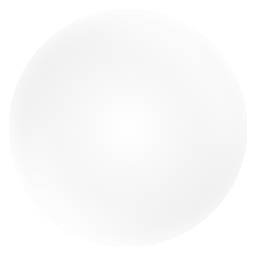
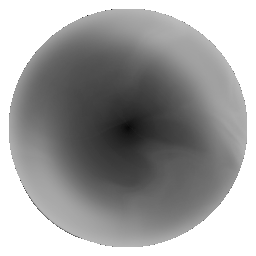
Level change mechanic & Particle animation
The game now messages the level change to the Game Controller

diff --git a/Assets/_Scripts/Games/G04_Simon.cs b/Assets/_Scripts/Games/G04_Simon.cs
@@ -20,20 +20,24 @@ namespace _Scripts.Games
     public class G04_Simon : MonoBehaviour
     {
 
-        [SerializeField] private List<GameObject> buttons, icons;
+        [SerializeField] private List<GameObject> buttons, infos;
         [SerializeField] private List<Simon> displayPattern, guessPattern, infoPattern;
         [SerializeField] private GameObject middle, overlay;
-        [SerializeField] private Difficulty currentLevel = Difficulty.LVL1;
+        private Difficulty CurrentLevel { get; set; } = Difficulty.LVL2;
+        private Color middleOriginal;
+
+        private const float WAIT_TIME = 0.25f;
         private const int MIN_LENGTH = 3, CHANCE = 3;
+        [SerializeField]  private int checkingIndex = 0, correctGuesses = 0;
         private bool isPlayerTurn = false;
-        private int checkingIndex = 0;
 
         // Start is called before the first frame update
         void Start()
         {
+            middleOriginal = middle.GetComponent<SpriteRenderer>().color;
             StartCoroutine(ActivateButtons());
             GeneratePattern(MIN_LENGTH);
-            StartCoroutine(AnimateButtons());
+            StartCoroutine(AnimateButtons(buttons));
         }
 
         /// <summary>
@@ -41,14 +45,14 @@ namespace _Scripts.Games
         /// </summary>
         private IEnumerator ActivateButtons()
         {
-            yield return new WaitForSeconds(0.25f);
+            yield return new WaitForSeconds(WAIT_TIME);
             middle.SetActive(true);
-            yield return new WaitForSeconds(0.25f);
+            yield return new WaitForSeconds(WAIT_TIME);
             foreach (GameObject button in buttons)
             {
                 button.SetActive(true);
                 button.GetComponent<SimonButton>().Animate();
-                yield return new WaitForSeconds(0.25f);
+                yield return new WaitForSeconds(WAIT_TIME);
             }
         }
 
@@ -60,6 +64,7 @@ namespace _Scripts.Games
             checkingIndex = 0;
             isPlayerTurn = false;
             overlay.SetActive(isPlayerTurn);
+            middle.GetComponent<SpriteRenderer>().color = middleOriginal;
             ToggleInput(isPlayerTurn);
         }
 
@@ -93,7 +98,7 @@ namespace _Scripts.Games
         {
             int chance = UnityEngine.Random.Range(0, CHANCE);
 
-            if (currentLevel == Difficulty.LVL3 && chance < 1)
+            if (CurrentLevel == Difficulty.LVL3 && chance < 1)
             {
                 // On Level 3 nothing gets added if the chance is right
                 infoPattern.Add(Simon.NONE);
@@ -103,7 +108,7 @@ namespace _Scripts.Games
             infoPattern.Add(Simon.SAME);
             guessPattern.Add(button);
 
-            if (currentLevel != Difficulty.LVL1 && chance > 1)
+            if (CurrentLevel != Difficulty.LVL1 && chance > 1)
             {
                 // On Level 2 the color is doubled
                 infoPattern[^1] = Simon.DOUBLE;
@@ -114,22 +119,28 @@ namespace _Scripts.Games
         /// <summary>
         /// Plays the animation of the buttons to play.
         /// </summary>
-        /// <returns></returns>
-        private IEnumerator AnimateButtons()
+        /// <param name="buttons">The list of objects to animate.</param>
+        /// <returns>An object that can be used to control the coroutine's execution.</returns>
+        private IEnumerator AnimateButtons(List<GameObject> buttons)
         {
-            yield return new WaitForSeconds(0.20f * buttons.Count*2);
+            yield return new WaitForSeconds(WAIT_TIME * buttons.Count*2);
 
             for (int i = 0; i < displayPattern.Count; i++)
             {
                 Simon button = displayPattern[i];
-                Simon icon = infoPattern[i];
+                Simon info = infoPattern[i];
                 buttons[(int)button].GetComponent<SimonButton>().Animate();
-                if(icon != Simon.SAME) icons[(int)icon%icons.Count].GetComponent<SimonButton>().Animate();
-                yield return new WaitForSeconds(1.0f);
+                if (info != Simon.SAME)
+                {
+                    GameObject icon = infos[(int)info % 4];
+                    icon.GetComponent<SimonButton>().Animate();
+                }
+                yield return new WaitForSeconds(WAIT_TIME * buttons.Count);
             }
 
             isPlayerTurn = true;
             overlay.SetActive(isPlayerTurn);
+            middle.GetComponent<SpriteRenderer>().color = middleOriginal + middleOriginal;
             ToggleInput(isPlayerTurn);
         }
 
@@ -153,40 +164,58 @@ namespace _Scripts.Games
         /// <param name="color">The color to check.</param>
         private void CheckColor(Simon color)
         {
-            if (!isPlayerTurn)
-            {
-                return;
-            }
-
             if (guessPattern[checkingIndex] == color)
             {
-                Debug.Log("correct color");
-                checkingIndex++;
+                checkingIndex++; //correct color
             }
-            else
+            else //wrong color
             {
-                Debug.Log("wrong color");
+                GameObject icon = infos.Find(obj => obj.name.Equals("IconNone"));
+                if (icon != null) icon.GetComponent<SimonButton>().Animate();
+                correctGuesses-=(int)CurrentLevel+1;
                 ResetTurn();
-                StartCoroutine(AnimateButtons());
+                StartCoroutine(AnimateButtons(buttons));
             }
 
             if (checkingIndex >= guessPattern.Count)
             {
-                Debug.Log("guessing done");
+                //guessing done
+                correctGuesses++;
+                UpdateLevel(correctGuesses);
                 ClearInfoPattern();
                 GeneratePattern(displayPattern.Count + 1);
-                StartCoroutine(AnimateButtons());
+                StartCoroutine(AnimateButtons(buttons));
             }
         }
 
+        /// <summary>
+        /// Clears the info pattern for next round, obscuring previous hints.
+        /// </summary>
         private void ClearInfoPattern()
         {
-            GameObject icon = icons.Find(obj => obj.name.Equals("IconOk"));
+            GameObject icon = infos.Find(obj => obj.name.Equals("IconOk"));
             if (icon != null) icon.GetComponent<SimonButton>().Animate();
 
             for (int i = 0; i < infoPattern.Count; i++)
             {
                 infoPattern[i] = Simon.SAME;
+            }
+        }
+
+        /// <summary>
+        /// Updates the game level for next spawn and messages to the GameController.
+        /// </summary>
+        private void UpdateLevel(int rounds)
+        {
+            if(rounds <= 0)
+            {
+                SendMessageUpwards("SetLevel", new object[] { gameObject, Difficulty.LVL1 });
+                correctGuesses = 0;
+            }
+
+            if(rounds >= 10)
+            {
+                SendMessageUpwards("SetLevel", new object[] { gameObject, (Difficulty)(rounds/10) });
             }
         }
     }

diff --git a/Assets/_Scripts/Games/SimonButton.cs b/Assets/_Scripts/Games/SimonButton.cs
@@ -12,7 +12,7 @@ namespace _Scripts.Games
         private static readonly Dictionary<Simon, (Action listener, Action silencer)> simonActions = new();
         private Color originalColor, targetColor;
         private SpriteRenderer spriteRenderer;
-        private readonly float transitionDuration = 0.15f;
+        private const float DURATION = 0.15f;
 
         /// <summary>
         /// Reacts on button press events and simulates such.
@@ -26,7 +26,7 @@ namespace _Scripts.Games
 
         public void Animate()
         {
-            StartCoroutine(AnimateColor(spriteRenderer, originalColor, targetColor, transitionDuration));
+            StartCoroutine(AnimateColor(spriteRenderer, originalColor, targetColor, DURATION));
         }
 
         /// <summary>
@@ -51,7 +51,7 @@ namespace _Scripts.Games
         /// <summary>
         /// Fakes a blinking animation of the button color.
         /// </summary>
-        /// <returns></returns>
+        /// <returns>An object that can be used to control the coroutine's execution.</returns>
         private IEnumerator AnimateColor(SpriteRenderer sprite, Color original, Color target, float duration)
         {
             float elapsedTime = 0f;
